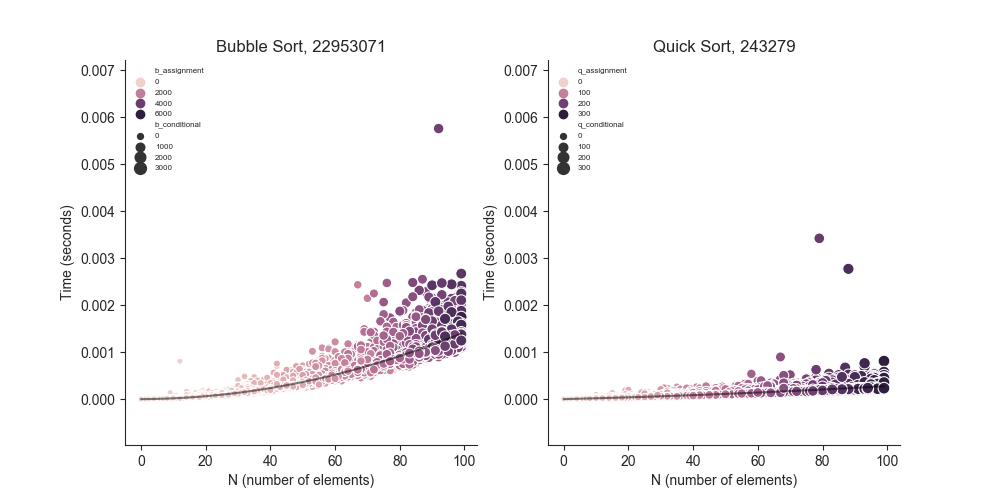
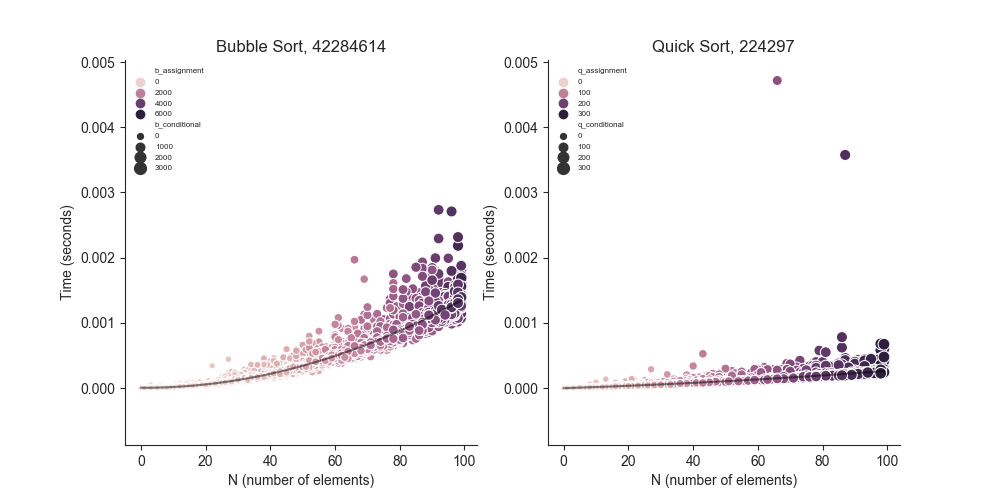
formated time complexity graph to return n

diff --git a/sort/sort_runs.py b/sort/sort_runs.py
@@ -132,18 +132,22 @@ def run_graphing(total,max,element):
     ax5.plot(np.unique(pd_lists['n']), np.poly1d(np.polyfit(pd_lists['n'],pd_lists['q_assignment'], 2))(np.unique(pd_lists['n'])),c='black',alpha=.5)
 
     # # get and format the big o notation info
-    # bubble_fit = np.polyfit(pd_lists['bubble'], pd_lists['n'], 2)
-    # quick_fit = np.polyfit(pd_lists['quick'], pd_lists['n'], 1)
-    #
+    bubble_ass_fit = np.polyfit(pd_lists['b_conditional'], pd_lists['n'], 2)
+    bubble_con_fit = np.polyfit(pd_lists['b_assignment'], pd_lists['n'], 2)
+    quick_ass_fit = np.polyfit(pd_lists['q_conditional'], pd_lists['n'], 1)
+    quick_con_fit = np.polyfit(pd_lists['q_assignment'], pd_lists['n'], 1)
+
     # # in terms of N
-    # bubble_o = int(abs(bubble_fit.flat[0]))
-    # quick_o = int(abs(quick_fit.flat[0]))
+    bubble_ass_o = int(abs(bubble_fit.flat[0]))
+    bubble_con_o = int(abs(bubble_fit.flat[0]))
+    quick_ass_o = int(abs(quick_fit.flat[0]))
+    quick_con_o = int(abs(quick_fit.flat[0]))
 
     # # labeling and formating for graphs
-    ax2.set_title("Bubble Sort, Conditionals")#, ${0}$".format(bubble_latex)
-    ax3.set_title("Bubble Sort, Assignments")#, ${0}$".format(quick_latex)
-    ax4.set_title("Quick Sort, Conditionals")#, ${0}$".format(bubble_latex)
-    ax5.set_title("Quick Sort, Assignments")#, ${0}$".format(quick_latex)
+    ax2.set_title("Bubble Sort, Conditionals {0}".format(bubble_ass_o))#, ${0}$".format(bubble_latex)
+    ax3.set_title("Bubble Sort, Assignments {0}".format(bubble_con_o))#, ${0}$".format(quick_latex)
+    ax4.set_title("Quick Sort, Conditionals {0}".format(quick_ass_o))#, ${0}$".format(bubble_latex)
+    ax5.set_title("Quick Sort, Assignments {0}".format(quick_con_o))#, ${0}$".format(quick_latex)
     axes = [ax2,ax3,ax4,ax5]
     for ax in axes:
         ax.set_ylabel("Time Complexity")

diff --git a/README.md b/README.md
@@ -49,9 +49,9 @@ python -m pytest
 
 ![a](/Sorting_time.png)
 
+![a](/Sorting_time_complexity.png)
+
 | Sort | Theoretical | N |
 | ---------- |:----------:|----------:|
 | Bubble Sort | O(N2) | ~30000000 |
 | Quick Sort | O(n log(n)) | ~200000 |
-
-![a](/Sorting_time_complexity.png)
